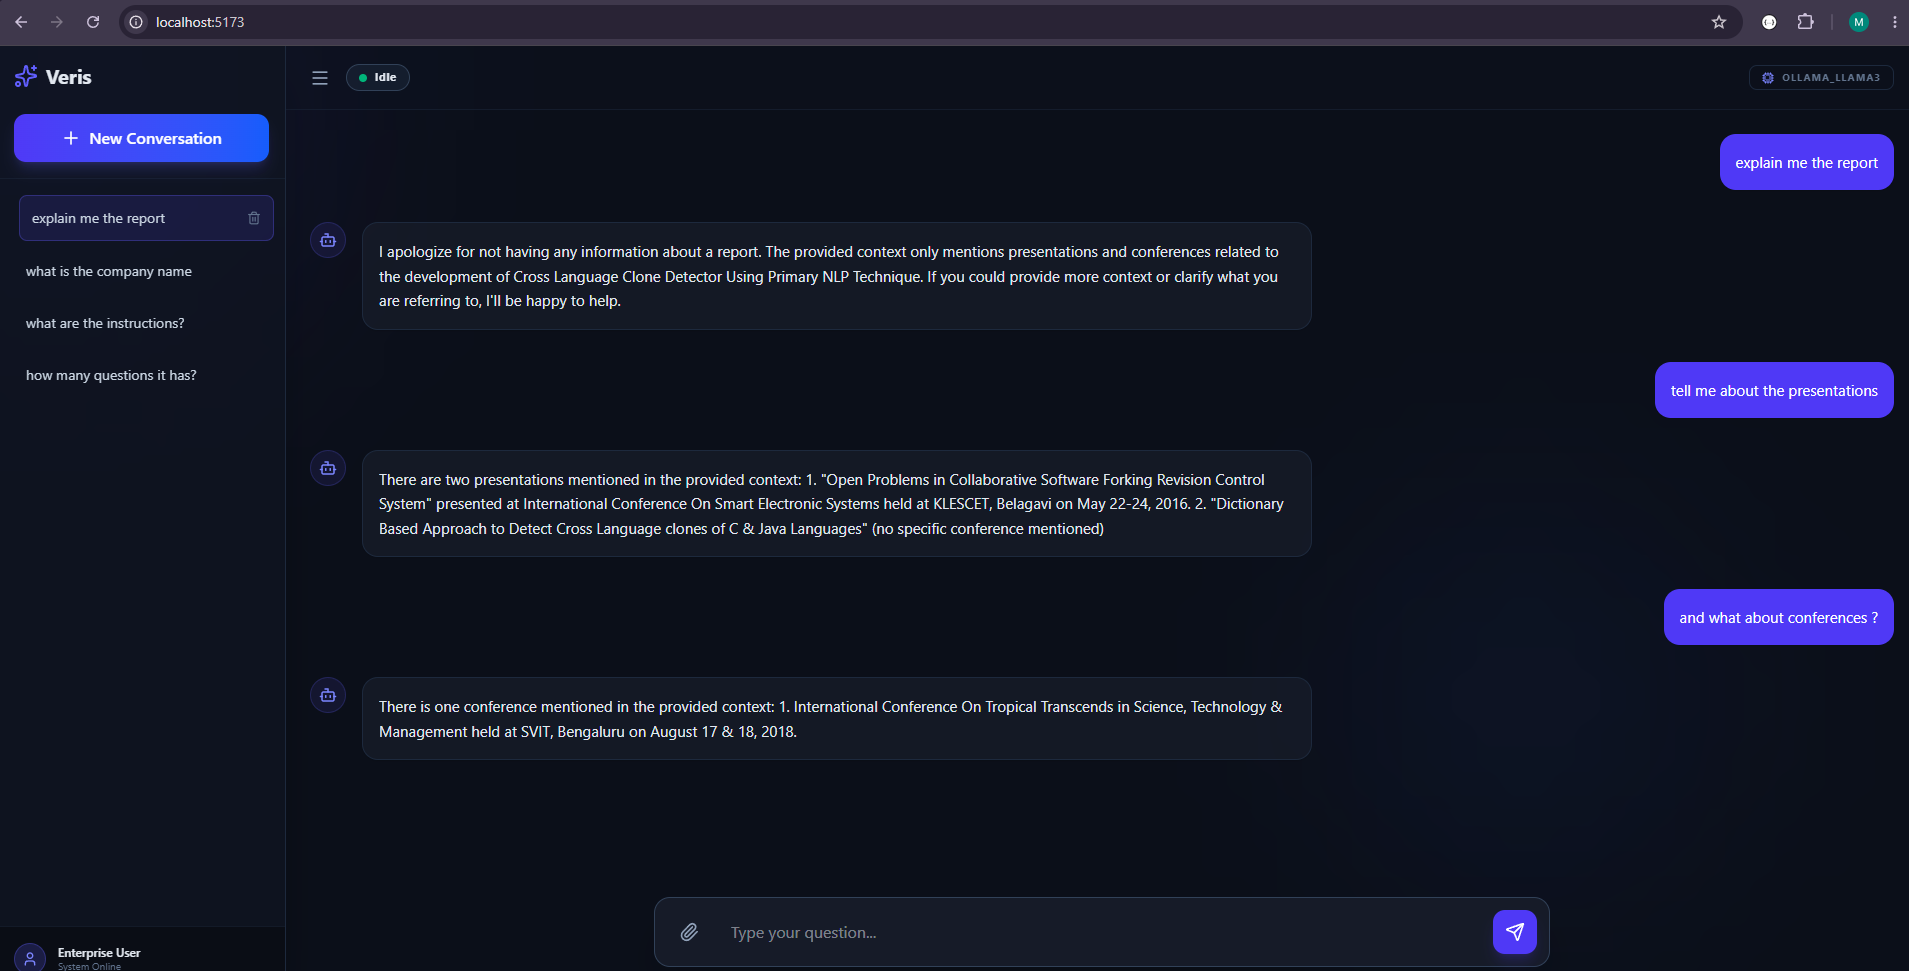
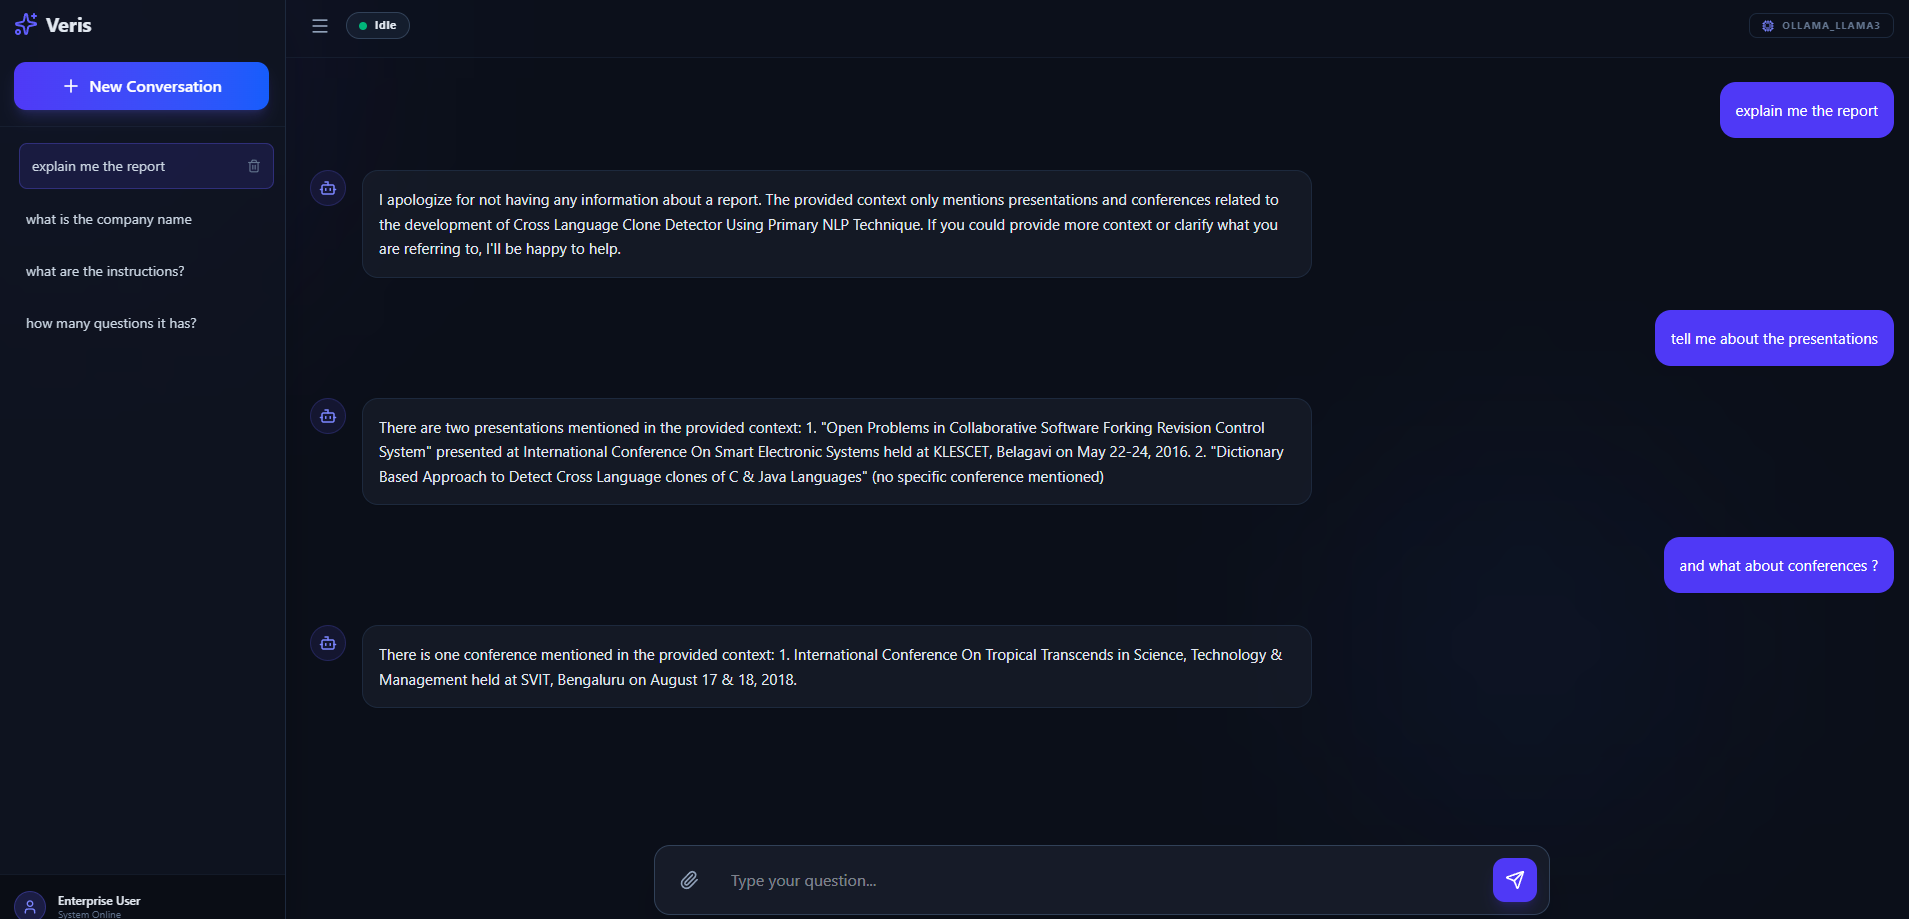
magnatic cursor added along with some fixes

diff --git a/src/portfolio.tsx b/src/portfolio.tsx
@@ -228,14 +228,47 @@ const Portfolio: React.FC = () => {
 
   const [expVisible, setExpVisible] = useState(false);
   const expRef = useRef<HTMLElement>(null);
+  const cursorRef = useRef<HTMLDivElement>(null);
+  const chatScrollRef = useRef<HTMLDivElement>(null);
 
-  // --- NEW: Ambient Occlusion ---
-  const [mousePos, setMousePos] = useState({ x: -1000, y: -1000 });
-  const [systemLoad] = useState(30);
+  // Auto-scroll chat to bottom when new messages arrive or chat opens
+  useEffect(() => {
+    if (chatScrollRef.current) {
+      chatScrollRef.current.scrollTo({
+        top: chatScrollRef.current.scrollHeight,
+        behavior: "smooth",
+      });
+    }
+  }, [chatHistory, chatOpen]);
+
+  // --- : Performant Magnetic Cursor State ---
 
   useEffect(() => {
     const handleMouseMove = (e: MouseEvent) => {
-      setMousePos({ x: e.clientX, y: e.clientY });
+      if (cursorRef.current) {
+        // Directly manipulate DOM to avoid 60fps React re-renders
+        cursorRef.current.style.left = `${e.clientX}px`;
+        cursorRef.current.style.top = `${e.clientY}px`;
+
+        const target = e.target as HTMLElement;
+        // Safe check for elements to ensure we don't crash on SVGs
+        const isInteractive =
+          target && typeof target.closest === "function"
+            ? target.closest("a, button, input")
+            : null;
+
+        if (isInteractive) {
+          cursorRef.current.style.width = "36px";
+          cursorRef.current.style.height = "36px";
+          cursorRef.current.style.backgroundColor = "transparent";
+          cursorRef.current.style.border = "2px solid #22d3ee";
+        } else {
+          cursorRef.current.style.width = "8px";
+          cursorRef.current.style.height = "8px";
+          cursorRef.current.style.backgroundColor = "white";
+          cursorRef.current.style.border = "none";
+        }
+      }
     };
     window.addEventListener("mousemove", handleMouseMove);
 
@@ -290,7 +323,7 @@ const Portfolio: React.FC = () => {
   };
 
   const AI_PROMPTS = [
-    "What did Manoj do at Accenture?",
+    "Tell me about his professional work experience.",
     "What are his core technical skills?",
     "Tell me about his projects.",
     "Is he open for hire?",
@@ -303,9 +336,9 @@ const Portfolio: React.FC = () => {
     setTimeout(() => {
       let aiRes = "";
 
-      if (prompt.includes("Accenture")) {
+      if (prompt.includes("experienc")) {
         aiRes =
-          "At Accenture, Manoj spearheaded the development of an AI-Powered Contest Management Ecosystem. He engineered a conversational Angular interface for idea discovery, implemented a complex RBAC workflow  for different user roles (Evaluator, Moderator, Admin), and authored an MCP server that automates frontend scaffolding by querying Figma design files directly via API.";
+          "Manojkumar has around 1.8 years of professional experience as a Software Engineer at Accenture, where he has worked on both enterprise application development and AI-powered solutions. He has built a chatbot-driven contest management platform that enables users to query contest information, submit ideas, and participate in innovation programs through a conversational interface, while also implementing evaluator and moderator workflows for reviewing, assigning, and managing idea submissions. In addition, he developed an AI-powered bug analysis platform using LangChain, LangGraph, MCP, and a RAG pipeline that integrates with Azure DevOps to analyze bug reports, identify impacted components, recommend fixes, and generate test scenarios. He also built a Figma-to-Code MCP server to streamline frontend development. Before joining Accenture, he worked as a Graduate Engineer Trainee at Blaosys Technologies, where he developed web applications using PHP (Laravel), JavaScript, MySQL, HTML, and CSS, giving him a strong foundation in full-stack software development.";
       } else if (prompt.includes("skills")) {
         aiRes =
           "Manoj's technical stack is geared toward enterprise AI and scalable systems. Key skills include: Python (FastAPI),Langchain, LangGraph, and ChromaDB for AI orchestration; Kafka and Redis for event-driven microservices; and Angular/React for frontend development.";
@@ -345,13 +378,18 @@ const Portfolio: React.FC = () => {
       {/* Particle Background Layer */}
       {!devMode && <ParticleBackground />}
 
-      {/* ---  Ambient Flashlight Effect --- */}
+      {/* --- FIXED: Magnetic Cursor Visualizer --- */}
       {!devMode && (
         <div
-          className="fixed inset-0 pointer-events-none z-[5] transition-all duration-700 ease-out"
+          ref={cursorRef}
+          className="fixed z-[9999] pointer-events-none rounded-full transition-all duration-200 ease-out flex items-center justify-center shadow-[0_0_10px_rgba(34,211,238,0.5)]"
           style={{
-            // The size of the circle now reacts to systemLoad
-            background: `radial-gradient(circle ${300 + systemLoad * 4}px at ${mousePos.x}px ${mousePos.y}px, rgba(192, 132, 252, 0.05), transparent 80%)`,
+            left: "-1000px",
+            top: "-1000px",
+            width: "8px",
+            height: "8px",
+            backgroundColor: "white",
+            transform: "translate(-50%, -50%)",
           }}
         />
       )}
@@ -418,6 +456,9 @@ const Portfolio: React.FC = () => {
           <style
             dangerouslySetInnerHTML={{
               __html: `
+            /* Hide Default Cursor when not in dev mode to showcase Magnetic Anchor */
+            ${!devMode ? "* { cursor: none !important; }" : ""}
+            
             @keyframes fade-in { from { opacity: 0; transform: translateY(15px); } to { opacity: 1; transform: translateY(0); } }
             .animate-fade-in { animation: fade-in 0.8s ease-out forwards; opacity: 0; }
             .delay-100 { animation-delay: 0.1s; }
@@ -433,6 +474,12 @@ const Portfolio: React.FC = () => {
               40% { transform: translate(-2px, -2px); text-shadow: -2px 0 #3b82f6, 2px 0 #f43f5e; }
               100% { transform: translate(0); text-shadow: 0 0 0 transparent; }
             }
+
+            /* --- Custom Dark Scrollbar for Chat Box --- */
+            .custom-scrollbar::-webkit-scrollbar { width: 6px; }
+            .custom-scrollbar::-webkit-scrollbar-track { background: transparent; }
+            .custom-scrollbar::-webkit-scrollbar-thumb { background: #374151; border-radius: 10px; }
+            .custom-scrollbar::-webkit-scrollbar-thumb:hover { background: #4b5563; }
           `,
             }}
           />
@@ -823,7 +870,10 @@ const Portfolio: React.FC = () => {
                 ✕
               </button>
             </div>
-            <div className="flex-1 p-4 overflow-y-auto space-y-4 text-sm bg-gray-950">
+            <div
+              ref={chatScrollRef}
+              className="flex-1 p-4 overflow-y-auto space-y-4 text-sm bg-gray-950 custom-scrollbar"
+            >
               {chatHistory.map((c, i) => (
                 <div
                   key={i}
@@ -838,7 +888,7 @@ const Portfolio: React.FC = () => {
               ))}
             </div>
             {/* Quick Prompt Selection Area - Now Scrollable */}
-            <div className="p-3 bg-gray-800 border-t border-gray-700 max-h-30 overflow-y-auto scrollbar-thin">
+            <div className="p-3 bg-gray-800 border-t border-gray-700 max-h-30 overflow-y-auto custom-scrollbar">
               <div className="grid grid-cols-1 gap-2">
                 {AI_PROMPTS.map((p, i) => (
                   <button